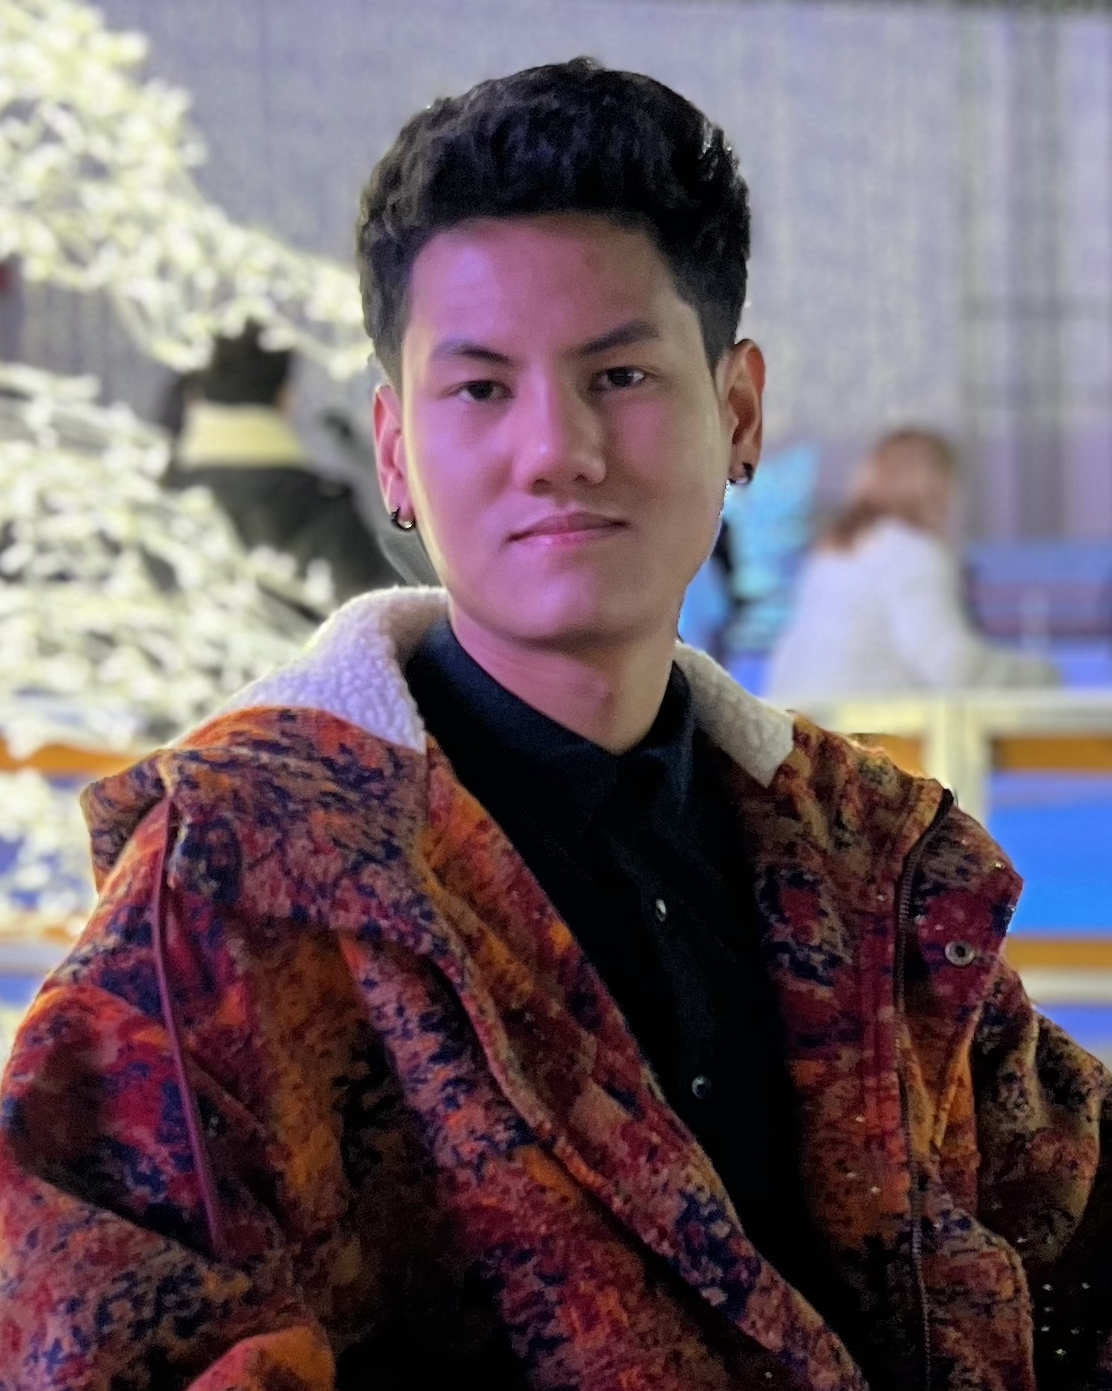
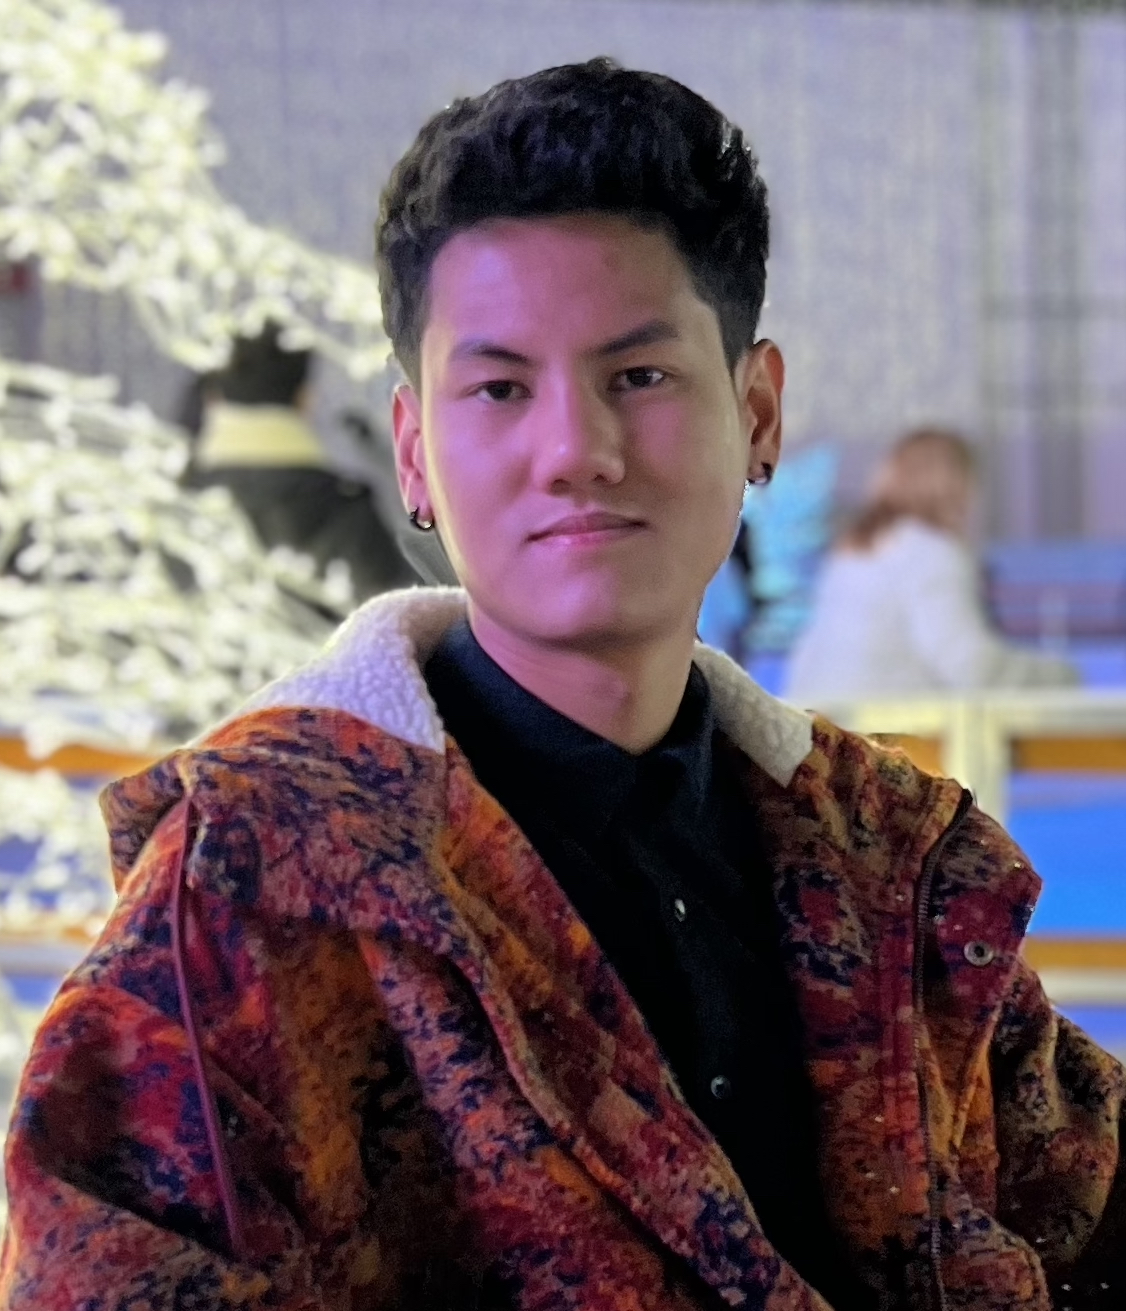
Update

diff --git a/src/about/about-styles.css b/src/about/about-styles.css
@@ -35,7 +35,7 @@ body {
 }
 
 .portrait img {
-    width: 40%;
+    width: 27%;
     height: auto;
     border-radius: 50%;
     border: 0.4rem solid rgb(255, 255, 255);
